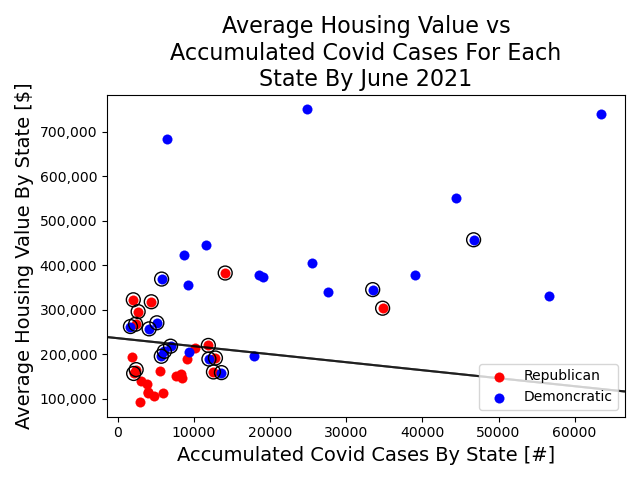
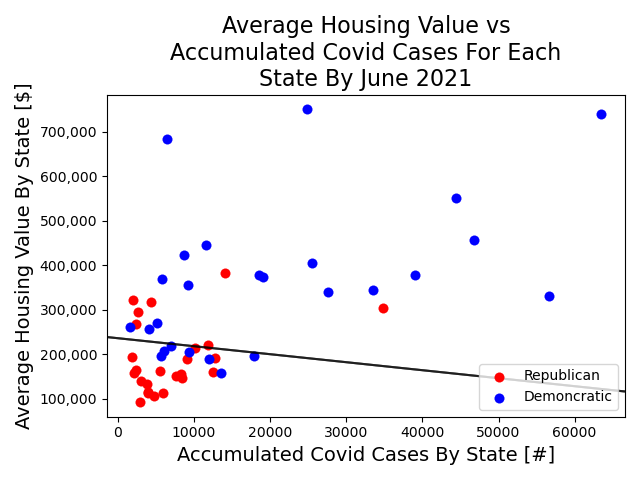
remove scatter from svm

diff --git a/main.py b/main.py
@@ -159,7 +159,7 @@ def covid(df_z,df_p,df_d,df_c,df_r,df_i,df_s,df_pol):
     # plot decision boundary and margins
     ax2.contour(XX, YY, Z, colors='k', levels=[-1, 0, 1], alpha=0.5, linestyles=['-', '-', '-'])
     # plot support vectors
-    ax2.scatter(clf.support_vectors_[:, 0], clf.support_vectors_[:, 1], s=100,linewidth=1, facecolors='none', edgecolors='k')
+    #ax2.scatter(clf.support_vectors_[:, 0], clf.support_vectors_[:, 1], s=100,linewidth=1, facecolors='none', edgecolors='k')
 
 
 

diff --git a/README.md b/README.md
@@ -33,17 +33,16 @@ This project used Pandas as the main library to analyze the data and generate pl
 
 ##Part 5: Result
 Figure 1. National Trend from Jan 2019 to June 2021
+![image1.png](image1.png)
 
+As you can see in the Figure 1, national trend of the housing market shows overall increasing trend with sigificant impact 
+from Covid 19. From Jan 2019 to March 2020, the average housing price mildly increases and follows linear regression very well, without any impact from Covid 19. Then as Covid cases increase in March 2020,
+upto July 2020, the price shows slightly lower growth rate. What's interesting is after July 2020, when the Covid 19 cases skyrocket, the average price also increases significantly. 
 
-As you can see in the Figure 1, national trend of the housing market shows very interesting trend. Overall, it increases with time but the rate
-varies significantly and show significant correlation with Covid 19. From Jan 2019 to March 2020, the average price mildly increases and follows linear regression very well, and no impact from Covid 19. Then as Covid cases increase in March 2020,
-upto July 2020, it shows slightly lower growth rate. What's more interesting, after July 2020, when the Covid 19 cases skyrocket, the average price also increases significantly. 
-
-Figure 2. Difference Between Average Housing Price and Predicted Price
+Figure 2. Average Housing Value VS Accumulated Covid Cases For Each Sate By June 2021
 ![image2.png](image2.png)
-It is even more obvious if we plot the difference between the average price with the predicted value from linear regression model, as shown in Figure 2.
-The difference is close to zero till Jan 2020. Then it slightly increases upto March 2020. With Stay-at-Home order in March, the difference stays the same till July, 2020. Then it increases significantly.
-
+If we dig the data deeper into the state level, we will see more interesting result. Here what I ploted is average housing value in each state vs accumulated cases in each state by June 2021. I also labeld 
+each state with its 2020 election result to indicate its political status. First of all, 
 
 ##Part 6: Conclusion
 From this preliminary analysis, we can clearly see the correlation between Covid 19 and the housing market. Due to time limitation, I only get chance to analyze the national trend, but further analysis can be done with these data sets.
@@ -52,4 +51,4 @@ From this preliminary analysis, we can clearly see the correlation between Covid
 [1] https://en.wikipedia.org/wiki/Template:COVID-19_pandemic_data
 [2] Housing related data from Zillow: https://www.zillow.com/research/data/
 [3] Covid related data: https://usafacts.org/visualizations/coronavirus-covid-19-spread-map/
-[4] Federal Fund rate data: https://fred.stlouisfed.org/series/FEDFUNDS
+[4] Election Result in 2020: https://fred.stlouisfed.org/series/FEDFUNDS
